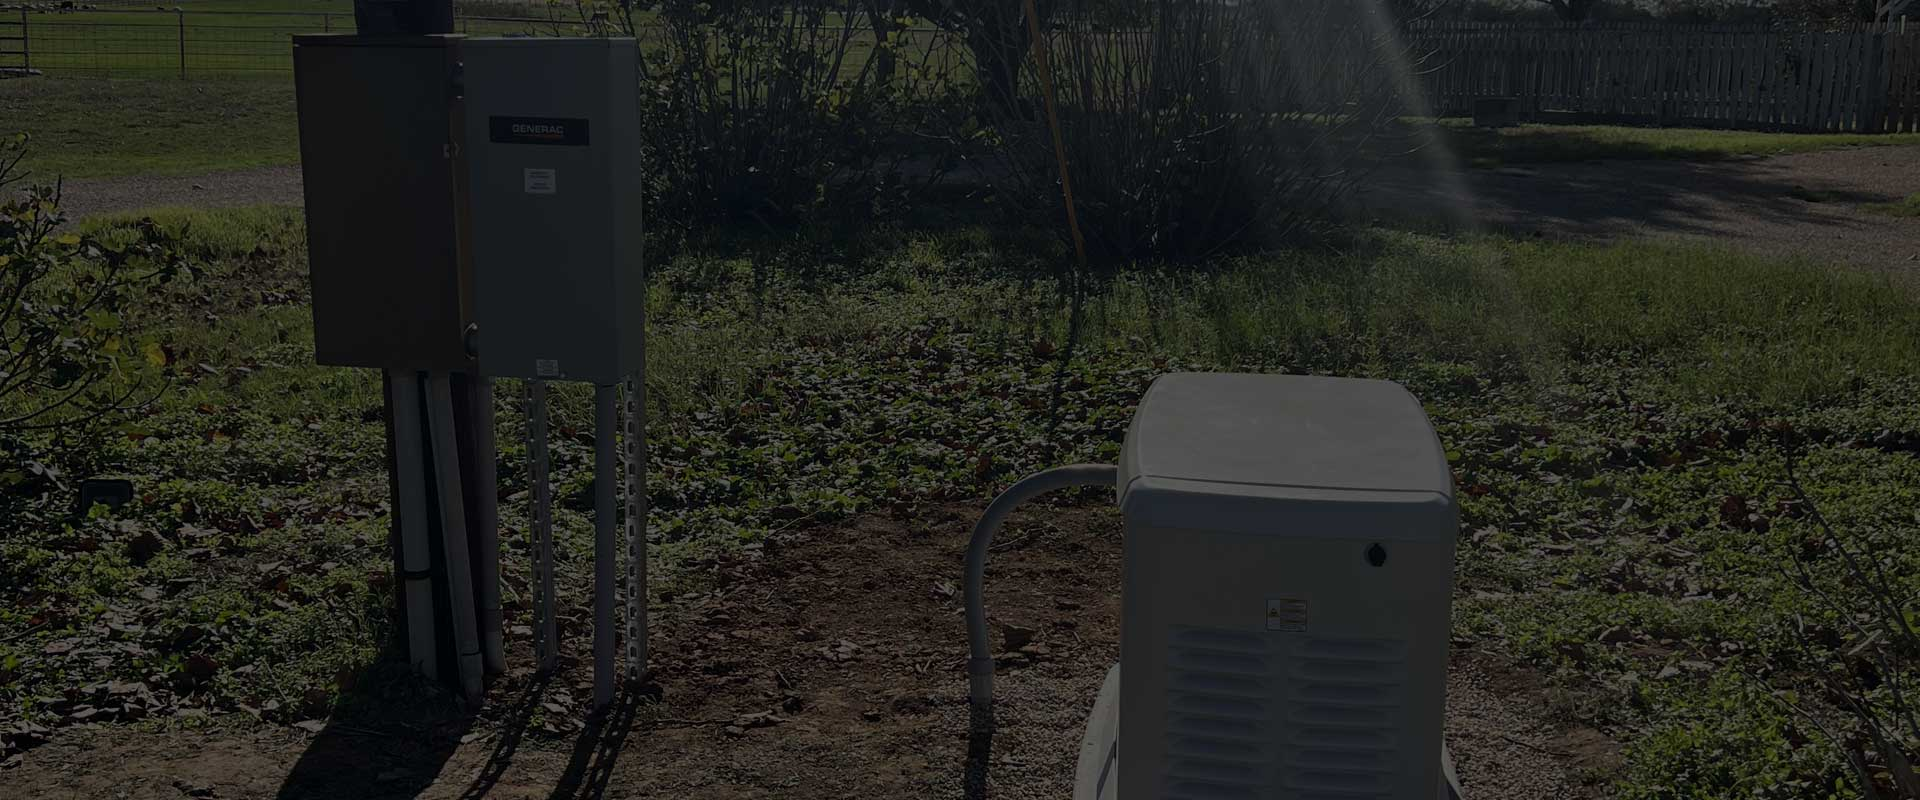
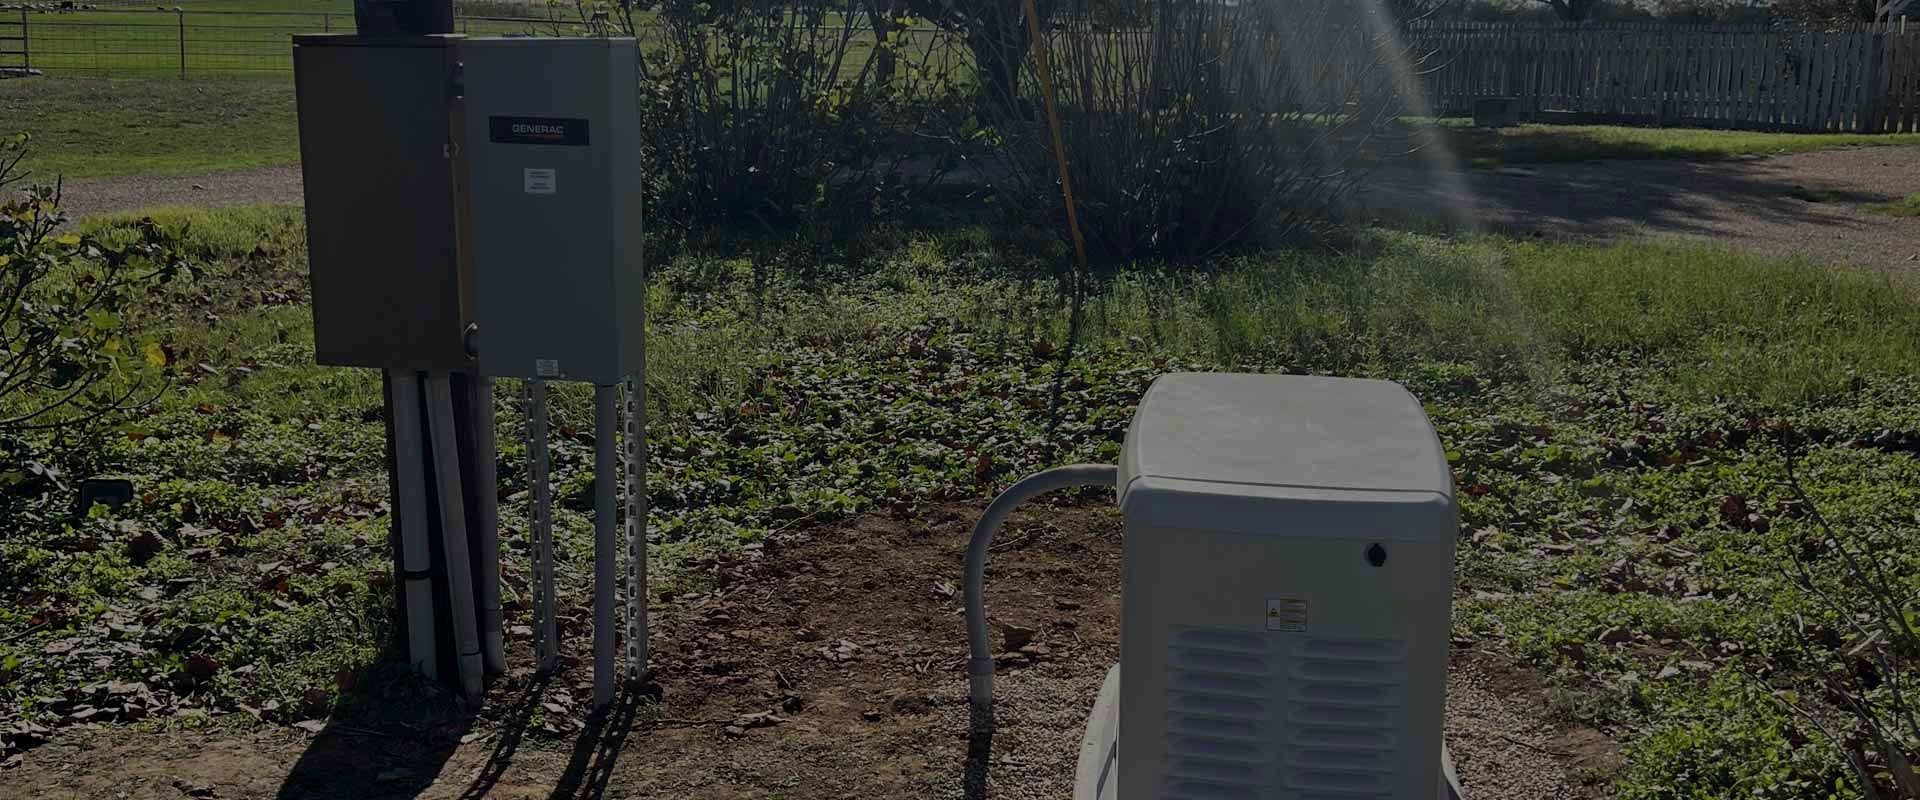
Brighten Generac feature (Generac Authorized) photo + cache-bust

diff --git a/index.html b/index.html
@@ -143,7 +143,7 @@
   /* ============ GENERATOR FEATURE ============ */
   #generators{background:var(--ink-2);border-top:1px solid var(--line);border-bottom:1px solid var(--line)}
   .feat{display:grid;grid-template-columns:1fr 1fr;gap:0;border:1px solid var(--line);border-radius:18px;overflow:hidden;background:var(--panel)}
-  .feat .fimg{position:relative;min-height:420px;background:url('img/Part-of-the-Robertson-County-Community-bg.jpg');background-size:cover;background-position:center}
+  .feat .fimg{position:relative;min-height:420px;background:url('img/Part-of-the-Robertson-County-Community-bg.jpg?v=2');background-size:cover;background-position:center}
   .feat .fimg .tag{position:absolute;top:20px;left:20px;background:#ff6f00;color:#fff;font-weight:900;font-size:12px;
     letter-spacing:.06em;text-transform:uppercase;padding:8px 13px;border-radius:9px}
   .feat .fbody{padding:52px 44px;display:flex;flex-direction:column;justify-content:center}
